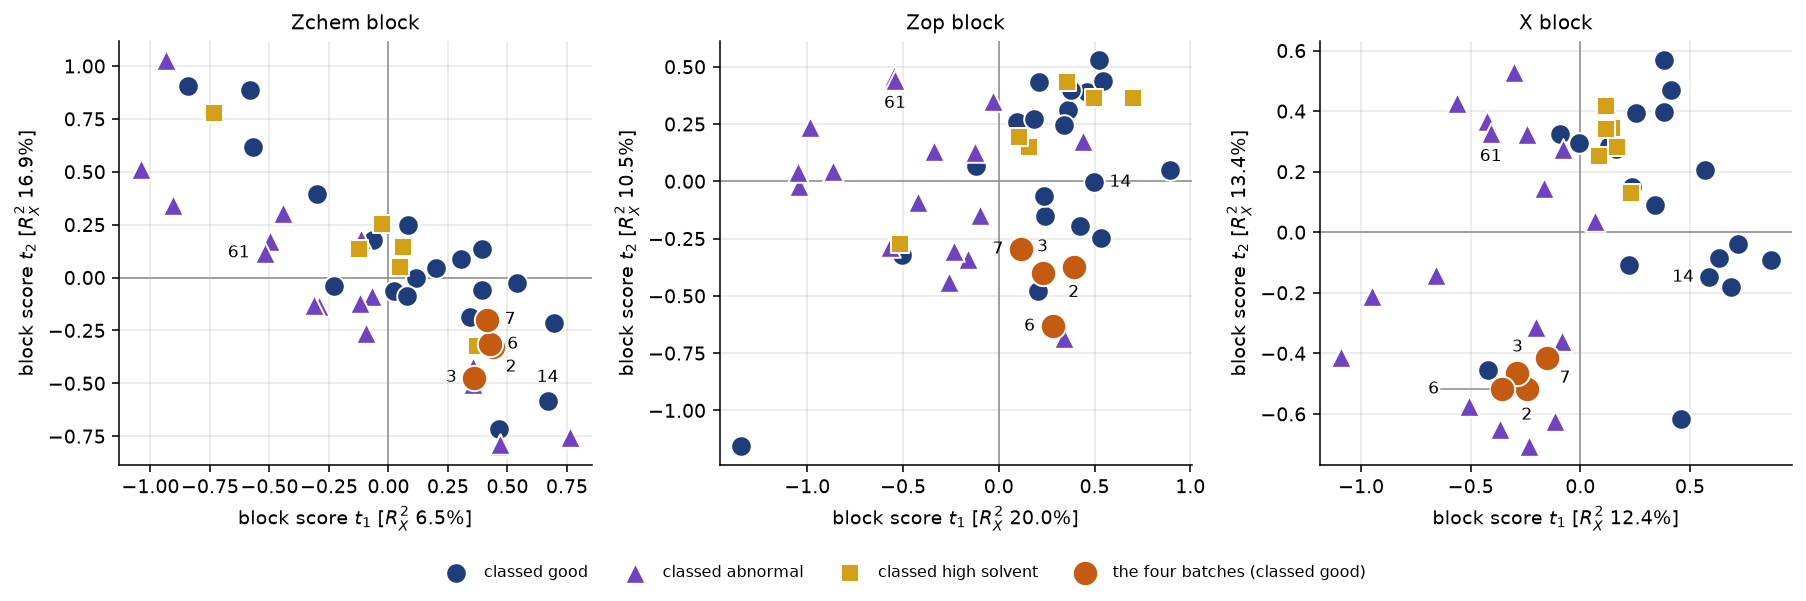
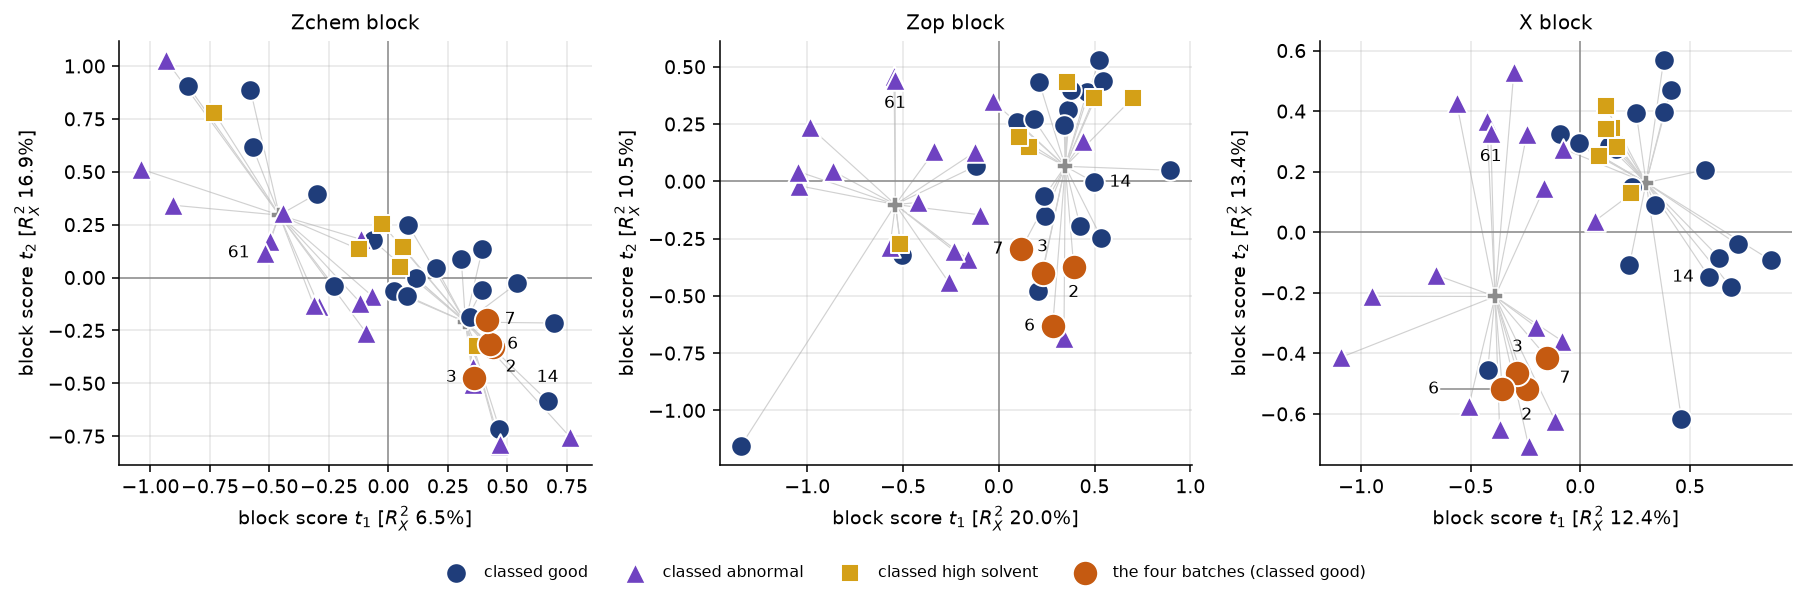
Show the grouping rule on the block scores, and carry the SPE areas across
Two figure changes from review.

The block-score panels asserted that four batches classed good sit among
the abnormal ones in the trajectory block, and left the reader to see it.
Each batch is now joined by a faint line to the average point of the group
it is placed with, and a cross marks the two averages, so the rule behind
the reading is on the figure: in the trajectory block the four reach across
to the abnormal group, and in both initial-condition blocks they reach to
the good one.

The SBR influence plot drew every batch at the same size, beside a score
plot whose marker areas carry the squared SPE. A reader could not match a
batch between the pair. influence_plot now takes the same sizes argument
and scales the areas the same way, so the two faulty batches are the
smallest markers on both figures and batch 8 the largest.

check_labels.py reports no collisions.

Claude-Session: https://claude.ai/code/session_01LXthGpHLQFfGubBiKFtGAE

diff --git a/batch/batch-case-fmc-figures.py b/batch/batch-case-fmc-figures.py
@@ -280,6 +280,16 @@ def main(out_dir: pathlib.Path) -> None:
 
     fig, axes = plt.subplots(1, 3, figsize=(13.0, 4.3))
     for ax, (name, scores) in zip(axes, mb.block_scores_.items(), strict=True):
+        # Each batch is joined to the average point of the group it is placed with, so the rule behind the
+        # reading is visible: a spoke reaching across to the other cloud is a batch classed one way by the
+        # plant and sitting with the other group in this block.
+        for label in ("good", "abnormal"):
+            members = [b for b in scores.index if placed.loc[b, name] == label]
+            centre = scores.loc[members].mean()
+            for b in members:
+                ax.plot([centre.iloc[0], scores.iloc[:, 0].loc[b]], [centre.iloc[1], scores.iloc[:, 1].loc[b]],
+                        color=PALE_GREY, lw=0.6, zorder=0)
+            ax.scatter(*centre.iloc[:2], s=60, marker="P", color=GREY, edgecolor="white", linewidth=0.8, zorder=2)
         group_scatter(ax, scores.iloc[:, 0], scores.iloc[:, 1], dict.fromkeys(anomalous, ORANGE), highlight_size=170, **coded)
         ax.scatter([], [], s=170, color=ORANGE, marker="o", edgecolor="white", linewidth=1, label="the four batches (classed good)")
         annotate_batches(ax, scores.iloc[:, 0], scores.iloc[:, 1], [*anomalous, *QUALITY_GROUP])

diff --git a/batch/batch_case_common.py b/batch/batch_case_common.py
@@ -432,6 +432,7 @@ def influence_plot(
     *,
     highlight: dict[int, str] | None = None,
     labels: list[int] | None = None,
+    sizes: pd.Series | None = None,
     conf_level: float = 0.95,
     title: str = "",
     groups: pd.Series | None = None,
@@ -469,7 +470,10 @@ def influence_plot(
     ax.text(t2_limit, 0.99, f" {conf_level:.0%} limit", transform=ax.get_xaxis_transform(), va="top", ha="left", fontsize=8.5, color=GREY)
     ax.text(0.995, spe_limit, f"{conf_level:.0%} limit", transform=ax.get_yaxis_transform(), va="bottom", ha="right", fontsize=8.5, color=GREY)
 
-    group_scatter(ax, t2, spe, highlight, groups=groups, group_styles=group_styles,
+    # ``sizes`` carries the same quantity, on the same scale, as the score plot that precedes this one,
+    # so a batch keeps its marker size across the pair and can be followed from one to the other.
+    areas = sizes.reindex(t2.index) * (BUBBLE / sizes.median()) if sizes is not None else None
+    group_scatter(ax, t2, spe, highlight, groups=groups, group_styles=group_styles, areas=areas,
                   size=None if groups is not None else 30, highlight_size=None if groups is not None else 52)
     if groups is not None:
         compact_legend(ax, legend_loc)

diff --git a/batch/batch-case-sbr-figures.py b/batch/batch-case-sbr-figures.py
@@ -141,7 +141,10 @@ def main(out_dir: pathlib.Path, data_url: str | None) -> None:
                      size_reference=(20, 30, 40), size_of_reference=lambda spe: spe**2,
                      title="Batch PLS: scores of the 53 batches")
     save(fig, out_dir, "batch-case-sbr-scores")
-    save(influence_plot(model, highlight=HIGHLIGHT, labels=[*HIGHLIGHT, *SPE_OUTLIERS], title="Batch PLS: Hotelling's $T^2$ against SPE"), out_dir, "batch-case-sbr-influence")
+    # The same marker areas as the score plot above, so a batch is recognised across the pair.
+    save(influence_plot(model, highlight=HIGHLIGHT, labels=[*HIGHLIGHT, *SPE_OUTLIERS],
+                        sizes=model.spe_.iloc[:, -1] ** 2,
+                        title="Batch PLS: Hotelling's $T^2$ against SPE"), out_dir, "batch-case-sbr-influence")
 
     r2_grid = model.r2_per_variable_.iloc[:, -1].unstack(level="sequence").reindex(index=model.tag_names_)
     fig = tag_panels(r2_grid, ylabel="$R^2$", ncols=3)
